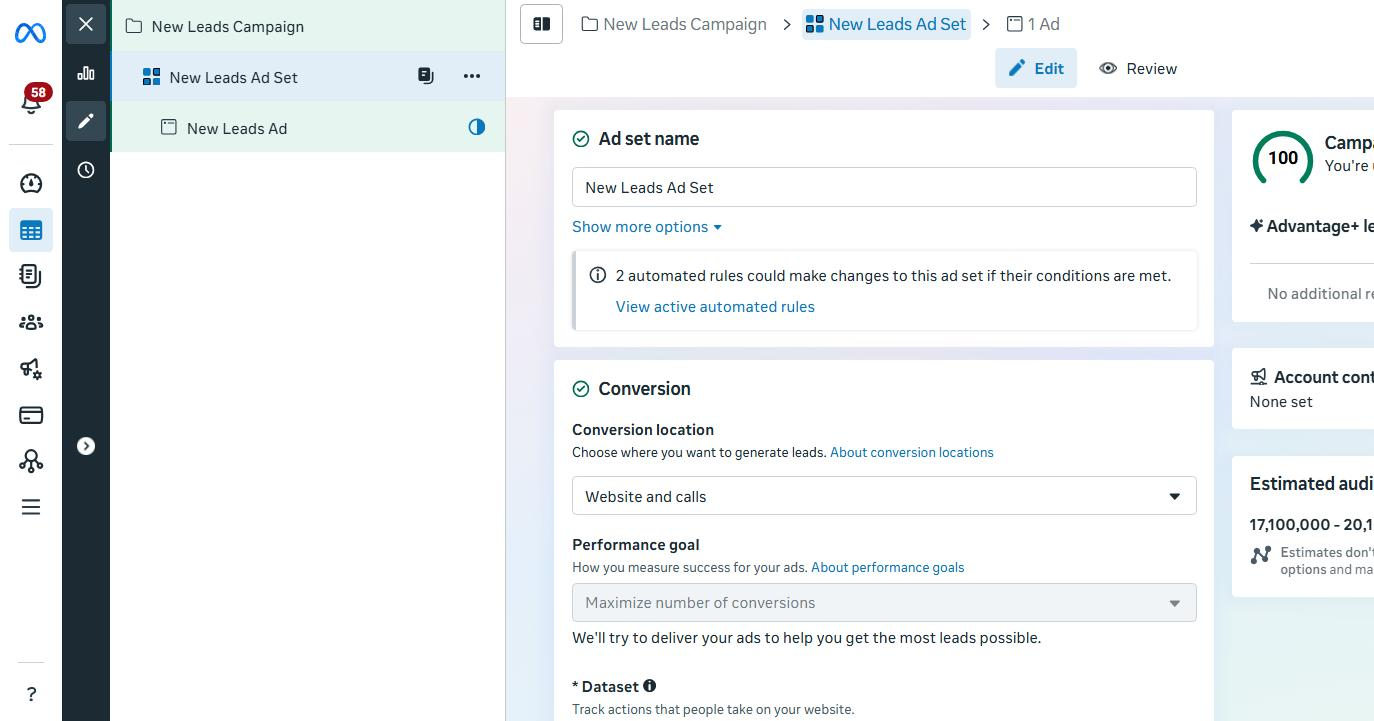
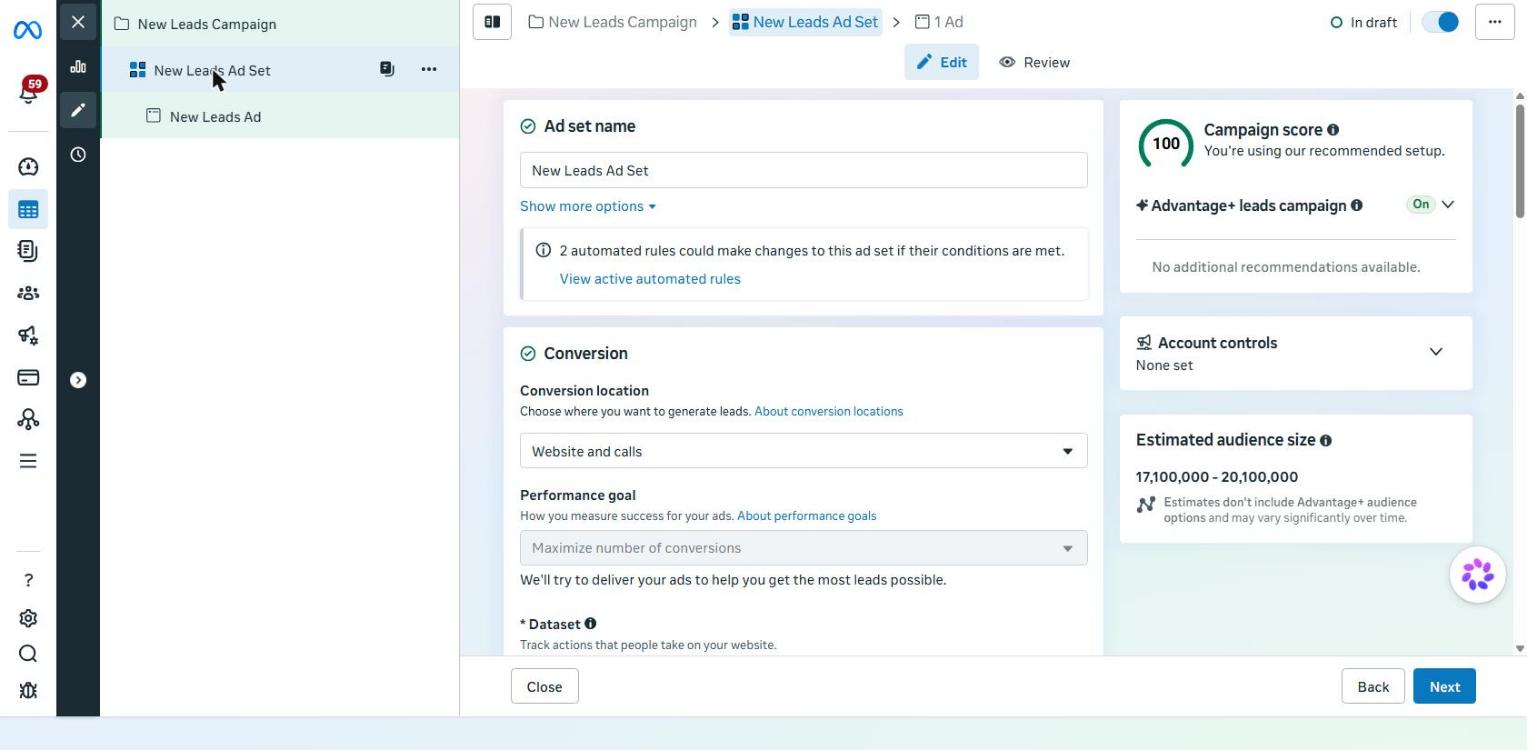
Reshoot campaign creation funnel at native 1527x750, connect it fully
Replace the outlier campaign-objective (was a 650x629 modal-only crop)
and campaign-settings/adset-settings (old separate-modal UI, since
replaced by Meta's single tree-based Campaign/Ad set/Ad editor) with
fresh full-window captures at the browser pane's native 1527x750,
matching the new standard. Add the missing ad-settings screen (Ad
level) so the real funnel now connects end to end: campaigns-list ->
Create -> objective -> campaign level -> ad set level -> ad level,
with the left tree and Close/Back/Next wired as real nav hotspots.

Redacted the real ad-account name/avatar (gaussian blur, matches the
existing convention) and the real Instagram handle (replaced with a
synthetic one on a sampled white background) before committing.

Changed region(s): [[0.0, 0.0, 1.0, 1.0], [0.8253, 0.8544, 1.0, 0.9764], [0.8865, 0.0, 1.0, 0.061]]

diff --git a/app-mvp/src/data/bm/adsmanager.ts b/app-mvp/src/data/bm/adsmanager.ts
@@ -69,32 +69,36 @@ export const BM_ADSMANAGER: BmScreen[] = [
     talk: 'Перше і найважливіше рішення при створенні кампанії — мета. Від неї залежить, кого й як Facebook буде тобі показувати.',
     task: 'Курс вчить лід-ген воронку (заявка → трекер → виплата). Яку мету обираєш?',
     image: require('../../../assets/bm/adsmanager/campaign-objective.png'),
-    imgW: 650,
-    imgH: 629,
+    imgW: 1527,
+    imgH: 750,
     hotspots: [
-      { id: 'awareness', xPct: 2.15, yPct: 32.6, wPct: 47.1, hPct: 8.6, correct: false, feedback: 'Впізнаваність оптимізує покази й охоплення, а не заявки. Для лід-ген воронки не підходить.' },
-      { id: 'traffic', xPct: 2.15, yPct: 42.5, wPct: 47.1, hPct: 8.6, correct: false, feedback: 'Трафік жене дешеві кліки, але не лідів: багато переходів, мало заявок.' },
-      { id: 'engagement', xPct: 2.15, yPct: 52.3, wPct: 47.1, hPct: 8.6, correct: false, feedback: 'Взаємодія оптимізує лайки й коментарі під постом, а не заявки на лендінгу.' },
-      { id: 'leads', xPct: 2.15, yPct: 62.0, wPct: 47.1, hPct: 8.6, correct: true, feedback: 'Так. Facebook сам шукає людей, схильних лишити заявку — саме те, що потрібно зв\'язці.' },
-      { id: 'app', xPct: 2.15, yPct: 71.9, wPct: 47.1, hPct: 8.6, correct: false, feedback: 'Це для встановлень застосунку, у зв\'язці немає додатка.' },
-      { id: 'sales', xPct: 2.15, yPct: 81.6, wPct: 47.1, hPct: 8.6, correct: false, feedback: 'Продажі оптимізують покупки в каталозі товарів — тут потрібні заявки, а не покупки.' },
-      { id: 'continue', kind: 'nav', xPct: 83.38, yPct: 94.12, wPct: 15.54, hPct: 5.88, label: 'Continue', leadsTo: 'campaign-settings' },
+      { id: 'awareness', xPct: 31.44, yPct: 28.27, wPct: 31.11, hPct: 6.40, correct: false, feedback: 'Впізнаваність оптимізує покази й охоплення, а не заявки. Для лід-ген воронки не підходить.' },
+      { id: 'traffic', xPct: 31.44, yPct: 35.73, wPct: 31.11, hPct: 6.40, correct: false, feedback: 'Трафік жене дешеві кліки, але не лідів: багато переходів, мало заявок.' },
+      { id: 'engagement', xPct: 31.44, yPct: 43.20, wPct: 31.11, hPct: 6.40, correct: false, feedback: 'Взаємодія оптимізує лайки й коментарі під постом, а не заявки на лендінгу.' },
+      { id: 'leads', xPct: 31.44, yPct: 50.67, wPct: 31.11, hPct: 6.40, correct: true, feedback: 'Так. Facebook сам шукає людей, схильних лишити заявку — саме те, що потрібно зв\'язці.' },
+      { id: 'app', xPct: 31.44, yPct: 58.13, wPct: 31.11, hPct: 6.40, correct: false, feedback: 'Це для встановлень застосунку, у зв\'язці немає додатка.' },
+      { id: 'sales', xPct: 31.44, yPct: 65.60, wPct: 31.11, hPct: 6.40, correct: false, feedback: 'Продажі оптимізують покупки в каталозі товарів — тут потрібні заявки, а не покупки.' },
+      { id: 'cancel', kind: 'nav', xPct: 56.84, yPct: 89.33, wPct: 5.44, hPct: 5.07, label: 'Cancel', leadsTo: 'campaigns-list' },
+      { id: 'close-x', kind: 'nav', xPct: 66.47, yPct: 4.67, wPct: 2.29, hPct: 4.27, label: '✕', leadsTo: 'campaigns-list' },
+      { id: 'continue', kind: 'nav', xPct: 62.54, yPct: 86.40, wPct: 6.55, hPct: 6.00, label: 'Continue', leadsTo: 'campaign-settings' },
     ],
   },
   {
     id: 'campaign-settings',
     section: 'ads-manager',
-    title: 'Створення кампанії · Налаштування',
-    talk: 'Після вибору мети — назва кампанії. Тут працює те саме правило, що і в списку: [товар] [дата] [ЦА] [спосіб] - [номер], а не "Кампанія 1".',
-    task: 'Де тут задається структурована назва кампанії?',
+    title: 'Створення кампанії · Рівень кампанії',
+    talk: 'Тепер уся кампанія — це одне дерево зліва: Campaign → Ad set → Ad. Клікаєш по рівню і редагуєш саме його, нічого нового не відкриваючи.',
+    task: 'Де тут задається назва кампанії?',
     image: require('../../../assets/bm/adsmanager/campaign-settings.png'),
-    imgW: 938,
-    imgH: 492,
+    imgW: 1527,
+    imgH: 750,
     hotspots: [
-      { id: 'campaign-name', xPct: 9.38, yPct: 33.54, wPct: 52.98, hPct: 9.15, correct: true, feedback: 'Так — саме тут вписується назва кампанії. Одразу за схемою, а не "Кампанія 1", яку потім доведеться розшифровувати.' },
-      { id: 'show-more', xPct: 9.38, yPct: 44.31, wPct: 13.86, hPct: 4.07, correct: false, feedback: '«Show more options» відкриває спецкатегорії реклами та бюджет кампанії — назву там не задаси.' },
-      { id: 'close', kind: 'nav', xPct: 8.53, yPct: 89.43, wPct: 10.34, hPct: 9.15, label: 'Close', leadsTo: 'ads-list' },
-      { id: 'next', kind: 'nav', xPct: 91.47, yPct: 89.43, wPct: 8.53, hPct: 9.15, label: 'Next', leadsTo: 'adset-settings' },
+      { id: 'campaign-name', xPct: 34.05, yPct: 19.33, wPct: 37.20, hPct: 6.00, correct: true, feedback: 'Так — саме тут вписується назва кампанії. Одразу за схемою, а не "Кампанія 1", яку потім доведеться розшифровувати.' },
+      { id: 'show-more', xPct: 34.05, yPct: 26.40, wPct: 8.65, hPct: 2.27, correct: false, feedback: '«Show more options» відкриває спецкатегорії реклами — назву там не задаси.' },
+      { id: 'tree-adset', kind: 'nav', xPct: 6.61, yPct: 5.33, wPct: 23.45, hPct: 6.67, label: 'New Leads Ad Set', leadsTo: 'adset-settings' },
+      { id: 'tree-ad', kind: 'nav', xPct: 6.61, yPct: 12.27, wPct: 23.45, hPct: 5.87, label: 'New Leads Ad', leadsTo: 'ad-settings' },
+      { id: 'close', kind: 'nav', xPct: 32.09, yPct: 89.33, wPct: 6.02, hPct: 5.07, label: 'Close', leadsTo: 'campaigns-list' },
+      { id: 'next', kind: 'nav', xPct: 93.58, yPct: 89.33, wPct: 5.89, hPct: 5.07, label: 'Next', leadsTo: 'adset-settings' },
     ],
   },
   {
@@ -104,11 +108,31 @@ export const BM_ADSMANAGER: BmScreen[] = [
     talk: 'На рівні групи оголошень ти кажеш Facebook, де саме відбувається конверсія — сайт, дзвінок, застосунок. Це має збігатися з тим, куди реально веде твоя реклама.',
     task: 'Де вказується, звідки саме йдуть заявки?',
     image: require('../../../assets/bm/adsmanager/adset-conversion.png'),
-    imgW: 1374,
-    imgH: 721,
+    imgW: 1527,
+    imgH: 750,
     hotspots: [
-      { id: 'adset-name', xPct: 41.34, yPct: 23.30, wPct: 46.07, hPct: 5.55, correct: false, feedback: 'Це просто назва групи оголошень — вона не каже Facebook, звідки йдуть заявки.' },
-      { id: 'conversion-location', xPct: 41.34, yPct: 65.88, wPct: 46.07, hPct: 5.96, correct: true, feedback: 'Так — тут вказуєш, де саме людина лишає заявку (сайт, дзвінок, застосунок). Має збігатися з реальною прив\'язкою реклами.' },
+      { id: 'adset-name', xPct: 34.05, yPct: 19.33, wPct: 37.20, hPct: 6.00, correct: false, feedback: 'Це просто назва групи оголошень — вона не каже Facebook, звідки йдуть заявки.' },
+      { id: 'conversion-location', xPct: 34.05, yPct: 57.07, wPct: 37.20, hPct: 5.33, correct: true, feedback: 'Так — тут вказуєш, де саме людина лишає заявку (сайт, дзвінок, застосунок). Має збігатися з реальною прив\'язкою реклами.' },
+      { id: 'tree-campaign', kind: 'nav', xPct: 6.61, yPct: 0, wPct: 23.45, hPct: 5.07, label: 'New Leads Campaign', leadsTo: 'campaign-settings' },
+      { id: 'tree-ad', kind: 'nav', xPct: 6.61, yPct: 12.27, wPct: 23.45, hPct: 5.87, label: 'New Leads Ad', leadsTo: 'ad-settings' },
+      { id: 'close', kind: 'nav', xPct: 32.09, yPct: 89.33, wPct: 6.02, hPct: 5.07, label: 'Close', leadsTo: 'campaigns-list' },
+      { id: 'back', kind: 'nav', xPct: 87.75, yPct: 89.33, wPct: 4.71, hPct: 5.07, label: 'Back', leadsTo: 'campaign-settings' },
+      { id: 'next', kind: 'nav', xPct: 93.00, yPct: 89.33, wPct: 6.22, hPct: 5.07, label: 'Next', leadsTo: 'ad-settings' },
+    ],
+  },
+  {
+    id: 'ad-settings',
+    section: 'ads-manager',
+    title: 'Оголошення · Рівень оголошення',
+    talk: 'Нижній рівень дерева — саме оголошення: яка сторінка/Instagram публікує, яку картинку чи відео показувати. Це вже фінальний крок перед публікацією.',
+    task: 'Тут обираєш, з якої сторінки й Instagram-профілю виходить оголошення.',
+    image: require('../../../assets/bm/adsmanager/ad-settings.png'),
+    imgW: 1527,
+    imgH: 750,
+    hotspots: [
+      { id: 'tree-campaign', kind: 'nav', xPct: 6.61, yPct: 0, wPct: 23.45, hPct: 5.07, label: 'New Leads Campaign', leadsTo: 'campaign-settings' },
+      { id: 'tree-adset', kind: 'nav', xPct: 6.61, yPct: 5.33, wPct: 23.45, hPct: 6.67, label: 'New Leads Ad Set', leadsTo: 'adset-settings' },
+      { id: 'back', kind: 'nav', xPct: 87.75, yPct: 89.33, wPct: 4.71, hPct: 5.07, label: 'Back', leadsTo: 'adset-settings' },
     ],
   },
   {
